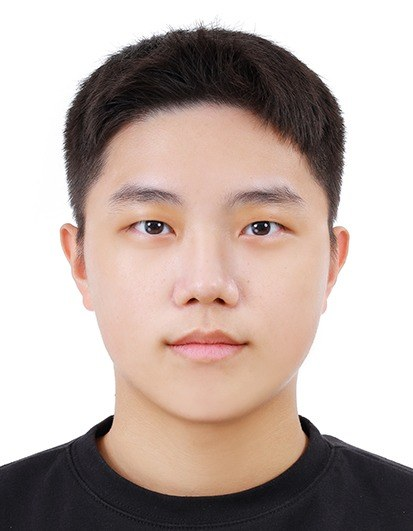
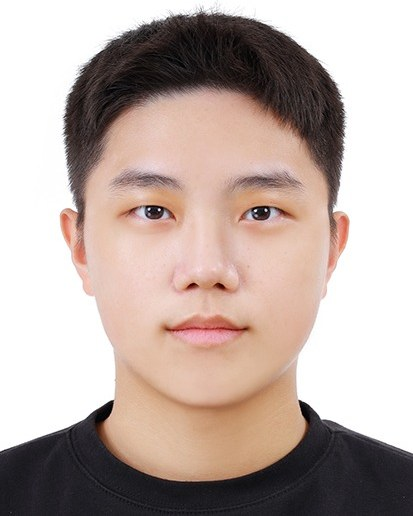
Member photos: largest 4:5 crop around each person, no letterbox
Claude-Session: https://claude.ai/code/session_01YVp5MUkbdXqn3ijZNuaaEm

diff --git a/assets/css/main.css b/assets/css/main.css
@@ -396,7 +396,7 @@ ul, ol { margin: 0; padding: 0; list-style: none; }
 .group-head h2 { font-size: 1.4rem; }
 .pi-card { display: grid; grid-template-columns: 200px minmax(0, 1fr); gap: 32px; align-items: start; background: var(--surface); border: 1px solid var(--line); border-radius: var(--radius); padding: 24px; box-shadow: var(--shadow); }
 .pi-card .avatar { width: 200px; height: 240px; border-radius: 10px; font-size: 3rem; }
-.pi-card img.avatar { object-fit: contain; background: var(--photo-bg); border: 1px solid var(--line); }
+.pi-card img.avatar { object-fit: cover; }
 .pi-body { display: grid; gap: 10px; }
 .pi-body h3 { font-size: var(--s-2); }
 .pi-body .ko { font: 500 1.1rem var(--f-body); color: var(--muted); margin-left: 6px; }
@@ -405,7 +405,7 @@ ul, ol { margin: 0; padding: 0; list-style: none; }
 @media (max-width: 640px) { .pi-card { grid-template-columns: minmax(0, 1fr); } .pi-card .avatar { width: 140px; height: 168px; } }
 .member-grid { display: grid; grid-template-columns: repeat(auto-fill, minmax(min(100%, 170px), 1fr)); gap: 24px 20px; }
 .member { display: grid; gap: 2px; justify-items: start; align-content: start; }
-img.avatar { object-fit: contain; background: var(--photo-bg); border: 1px solid var(--line); }  /* 틀은 4:5 고정, 원본 사진 전체가 보이고 남는 곳은 배경색(--photo-bg) */
+img.avatar { object-fit: cover; }  /* 틀은 4:5 고정. 새 사진은 미리 4:5로 잘라 넣으면 원하는 부분이 보이고, 아니면 가운데 기준으로 잘림 */
 .avatar { width: 100%; aspect-ratio: 4 / 5; max-width: 100%; height: auto; object-fit: cover; border-radius: 10px; background: var(--pnu-soft); margin-bottom: 10px; }
 .avatar-empty {
   display: grid; place-items: center; color: var(--hero-ink); font: 600 1.8rem var(--f-display); letter-spacing: .02em;
